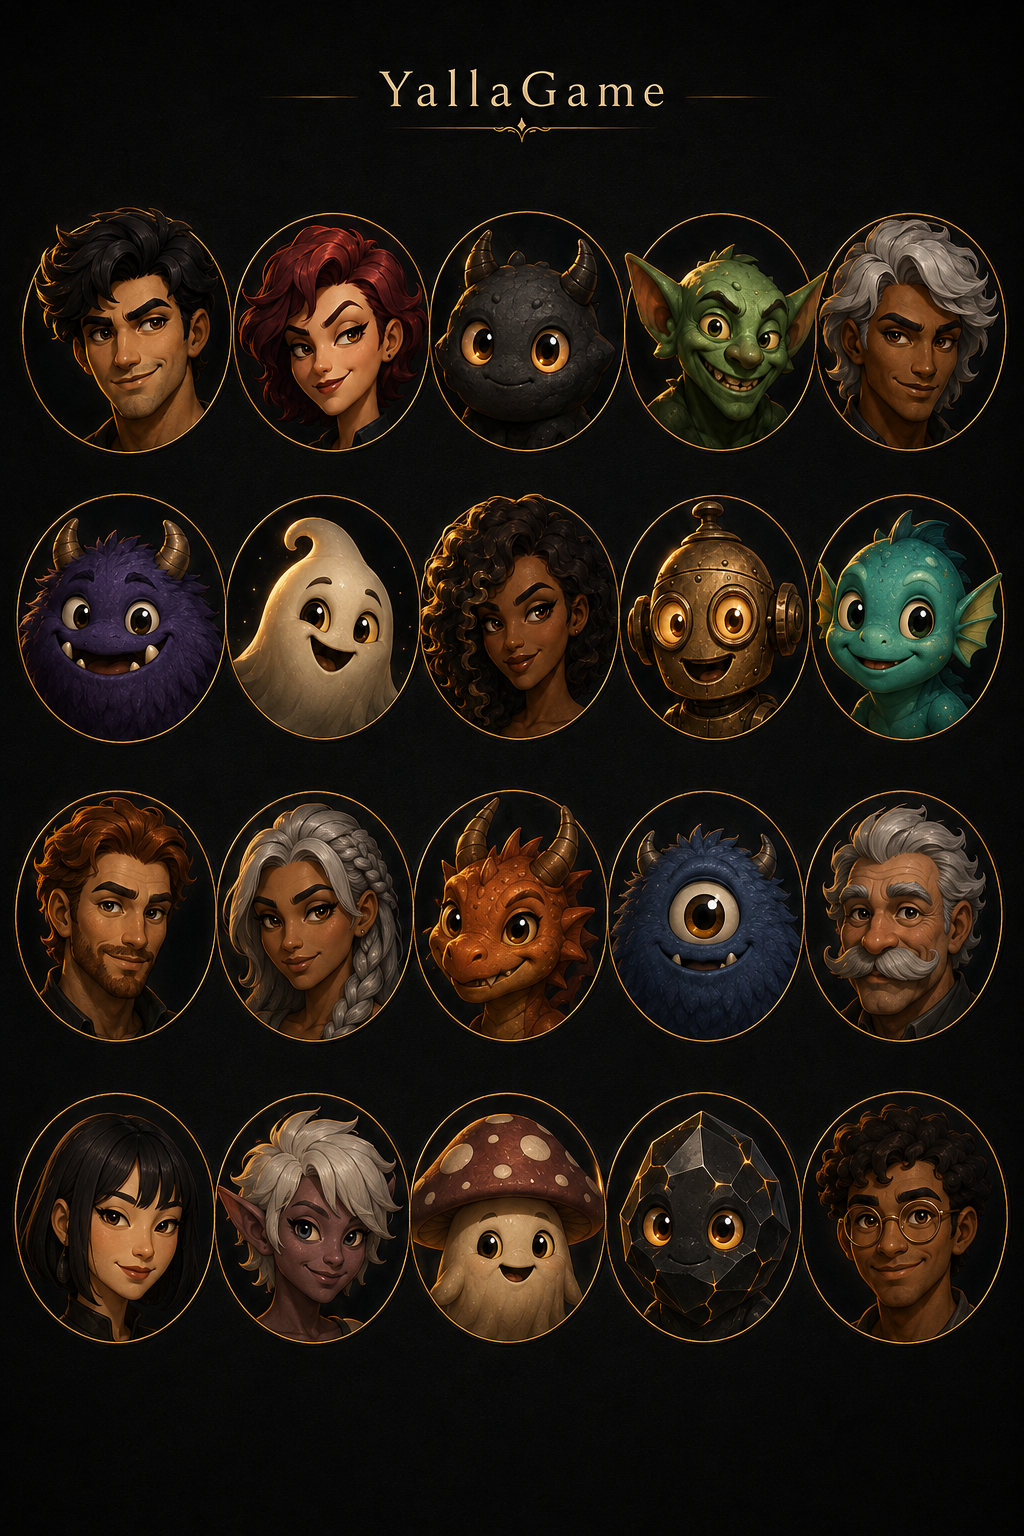
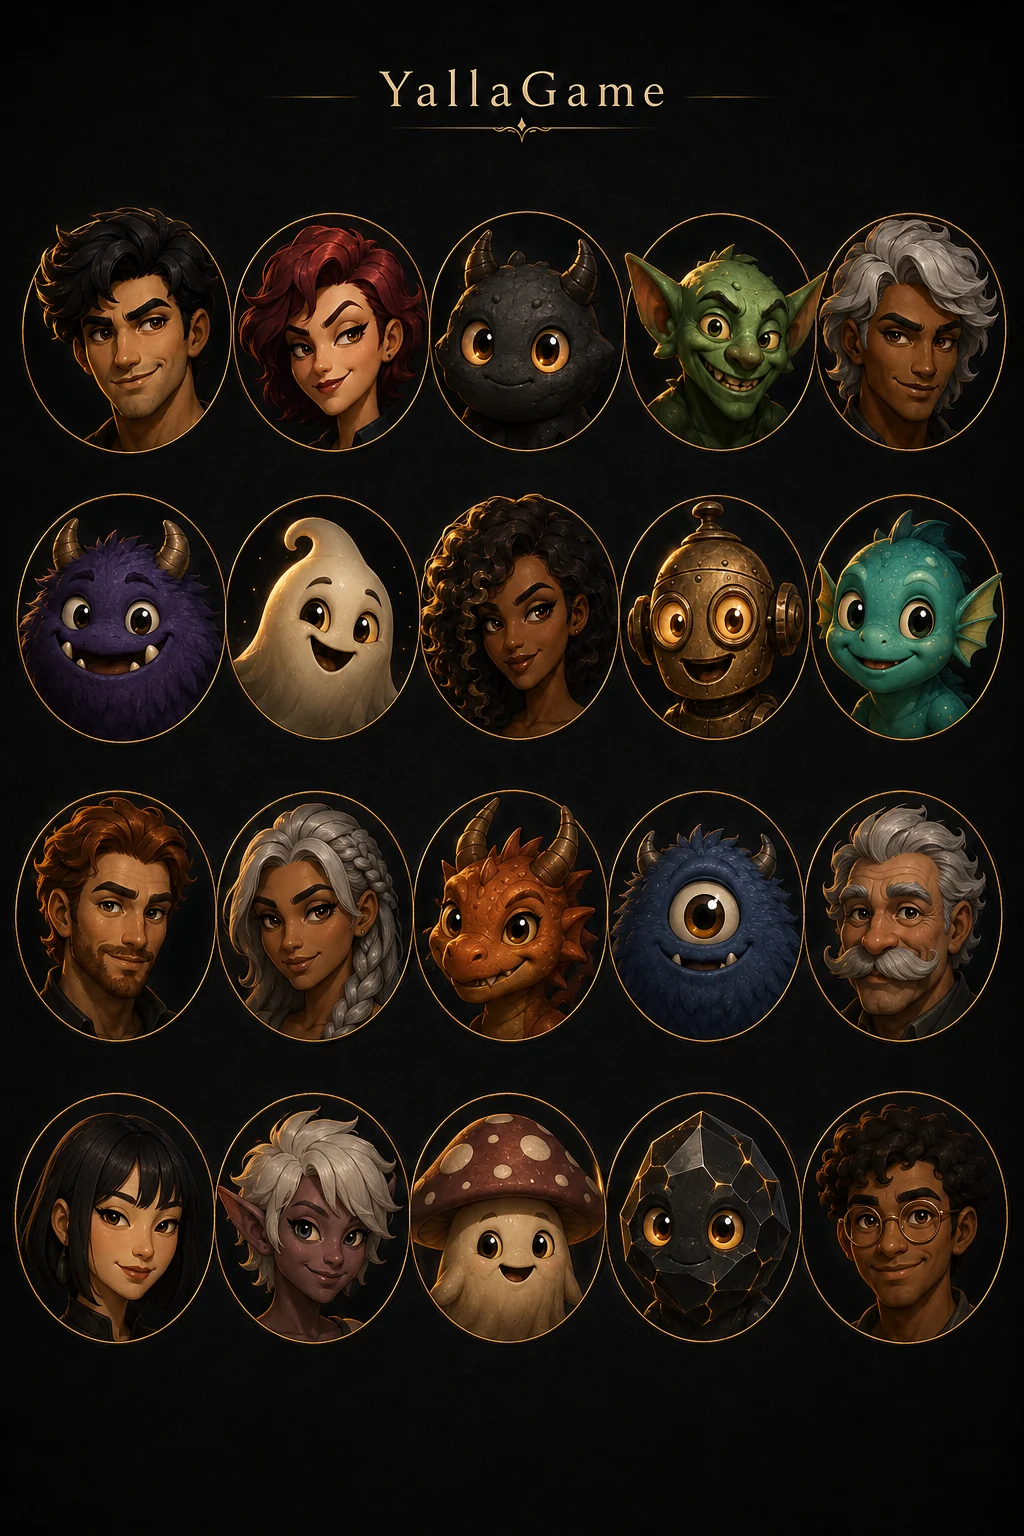
fix: site audit — SEO, security hardening and lighter images
- Worlds page eyebrow no longer hides under the fixed header on wide screens
- Analytics accepts the Worlds, How to Play, Features and About views
- Locale-aware uppercase so Turkish eyebrows render "İ" correctly
- Social tags rewritten in place with absolute URLs, plus canonical/og:url
- Serve robots.txt, sitemap.xml and favicon.ico
- Update production dependencies with known advisories (npm audit fix)
- Cleanup timers and stray rejections can no longer crash the server
- Role and word dealing uses crypto randomness
- Re-encode lossless avatar and football art as lossy WebP (12.5 MB -> 1.6 MB)
- Drop the empty render-blocking styles.css link; bump the worker cache

Changed region(s): [[0.4062, 0.375, 0.4375, 0.4375], [0.7812, 0.4062, 0.8125, 0.4375], [0.2188, 0.1875, 0.25, 0.2188]]

diff --git a/src/server/index.ts b/src/server/index.ts
@@ -1,6 +1,7 @@
 import express from "express"
 import compression from "compression"
 import http from "node:http"
+import { randomInt } from "node:crypto"
 import { Server } from "socket.io"
 import { publicApiLimit, safeHttpError, securityHeaders } from "./security/http.js"
 import path from "node:path"
@@ -77,6 +78,16 @@ async function main() {
   app.get("/api/games", (_req, res) => { res.set("Cache-Control","no-store").json(effectiveCatalog(controlDb)) })
 
   app.get("/control.html", (_req,res) => { res.redirect(303,"/admin") })
+  // Crawlers and browsers ask for these by convention; without them every
+  // request fell through to an HTML 404.
+  app.get("/robots.txt", (_req,res) => {
+    const sitemap = config.ALLOWED_ORIGIN ? `\nSitemap: ${config.ALLOWED_ORIGIN}/sitemap.xml` : ""
+    res.set("Cache-Control","public, max-age=3600").type("text/plain").send(`User-agent: *\nAllow: /\nDisallow: /admin\nDisallow: /api/\nDisallow: /uploads/${sitemap}\n`)
+  })
+  if (config.ALLOWED_ORIGIN) app.get("/sitemap.xml", (_req,res) => {
+    res.set("Cache-Control","public, max-age=3600").type("application/xml").send(`<?xml version="1.0" encoding="UTF-8"?>\n<urlset xmlns="http://www.sitemaps.org/schemas/sitemap/0.9"><url><loc>${config.ALLOWED_ORIGIN}/</loc></url></urlset>\n`)
+  })
+  app.get("/favicon.ico", (_req,res) => { res.redirect(302,"/assets/logo/favicon-velocity.png") })
   if (existsSync(path.join(staticDir,"index.html"))) {
     const publicShell = readFileSync(path.join(staticDir,"index.html"),"utf8")
     app.get(["/","/index.html"],(_req,res) => {
@@ -140,7 +151,7 @@ async function main() {
   })
 
   registerHandlers(io, {
-    io, store, resolveGame, resolveEngine, config, rng: Math.random,
+    io, store, resolveGame, resolveEngine, config, rng: () => randomInt(0x100000000) / 0x100000000,
     canCreateGame: id => (controlDb.prepare("SELECT enabled FROM game_asset_overrides WHERE game_id=?").get(id) as {enabled:number} | undefined)?.enabled !== 0,
     isValidCharacter: id => isSelectableCharacterId(controlDb, id),
     selectableCharacters: () => effectiveAvatarCatalog(controlDb).map(a => a.id)
@@ -148,11 +159,14 @@ async function main() {
 
   setInterval(() => {
     void store.deleteOlderThan(Date.now() - config.ROOM_TTL_HOURS * 60 * 60 * 1000)
+      .catch((err: unknown) => logger.error({ err }, "room cleanup failed"))
   }, 20 * 60 * 1000).unref()
   const retentionDays = Number(process.env.ANALYTICS_RETENTION_DAYS ?? 365)
   if (!Number.isInteger(retentionDays) || retentionDays < 1 || retentionDays > 3650) throw new Error("Invalid ANALYTICS_RETENTION_DAYS")
   analytics.retain(retentionDays)
-  setInterval(() => analytics.retain(retentionDays), 3600_000).unref()
+  setInterval(() => {
+    try { analytics.retain(retentionDays) } catch (err) { logger.error({ err }, "analytics retention failed") }
+  }, 3600_000).unref()
 
   server.listen(config.PORT, () => {
     logger.info({ port: config.PORT, env: config.NODE_ENV }, "server ready")
@@ -168,5 +182,8 @@ async function main() {
   process.on("SIGINT",  () => void shutdown())
   process.on("SIGTERM", () => void shutdown())
 }
+
+// A stray rejection in one room's handler must not take every other room down.
+process.on("unhandledRejection", err => { logger.error({ err }, "unhandled rejection") })
 
 main().catch(err => { logger.fatal({ err }, "startup failed"); process.exit(1) })

diff --git a/src/client/views/gameInfo.ts b/src/client/views/gameInfo.ts
@@ -1,7 +1,7 @@
 import type { Game, Role } from "@shared/types.js"
 import { $, el, clear } from "../ui/dom.js"
 import { buildThemeFx } from "../ui/character.js"
-import { getLang, t } from "../services/i18n.js"
+import { getLang, t, upper } from "../services/i18n.js"
 import { goBack, setView } from "../router.js"
 import { dismissLayer, pushLayer, type LayerHandle } from "../services/navigation.js"
 import { emit } from "../services/socket.js"
@@ -132,7 +132,7 @@ function buildHero(
   // Text direction is independent of the poster/copy placement.
   const titleRow = el("div", { class: "gi-title-row" }, [
     buildThemeIcon(game.theme),
-    el("p", { class: "gi-eyebrow" }, [t("worldLabel").toUpperCase()])
+    el("p", { class: "gi-eyebrow" }, [upper(t("worldLabel"))])
   ])
   const title = el("h1", { class: "gi-title" }, [game.title[lang]])
   // Slogans are English poster lines. Wrap with <bdi dir="ltr"> so adjacent
@@ -240,7 +240,7 @@ function buildAbout(
   leftChildren.push(
     el("p", { class: "gi-section-eyebrow" }, [
       el("span", { class: "gi-ornament" }, ["❖"]),
-      el("span", {}, [t("aboutTitle").toUpperCase()]),
+      el("span", {}, [upper(t("aboutTitle"))]),
       el("span", { class: "gi-ornament" }, ["❖"])
     ]),
     el("h2", { class: "gi-section-title" }, [t("aboutTitle")]),
@@ -298,7 +298,7 @@ function buildHowToPlay(game: Game, lang: ReturnType<typeof getLang>): HTMLEleme
     el("header", { class: "gi-section-header" }, [
       el("p", { class: "gi-section-eyebrow" }, [
         el("span", { class: "gi-ornament" }, ["❖"]),
-        el("span", {}, [t("howToPlayTitle").toUpperCase()]),
+        el("span", {}, [upper(t("howToPlayTitle"))]),
         el("span", { class: "gi-ornament" }, ["❖"])
       ]),
       el("h2", { class: "gi-section-title" }, [t("howToPlayTitle")])
@@ -355,7 +355,7 @@ function buildRoles(
     el("header", { class: "gi-section-header" }, [
       el("p", { class: "gi-section-eyebrow" }, [
         el("span", { class: "gi-ornament" }, ["❖"]),
-        el("span", {}, [t("rolesInGameTitle").toUpperCase()]),
+        el("span", {}, [upper(t("rolesInGameTitle"))]),
         el("span", { class: "gi-ornament" }, ["❖"])
       ]),
       el("h2", { class: "gi-section-title" }, [t("rolesInGameTitle")])
@@ -438,7 +438,7 @@ function buildCategories(
     el("header", { class: "gi-section-header" }, [
       el("p", { class: "gi-section-eyebrow" }, [
         el("span", { class: "gi-ornament" }, ["❖"]),
-        el("span", {}, [t("categoriesTitle").toUpperCase()]),
+        el("span", {}, [upper(t("categoriesTitle"))]),
         el("span", { class: "gi-ornament" }, ["❖"])
       ]),
       el("h2", { class: "gi-section-title" }, [t("categoriesTitle")])
@@ -540,7 +540,7 @@ function openCategorySetup(
     el("header", { class: "gi-setup-header" }, [
       el("p", { class: "gi-section-eyebrow" }, [
         el("span", { class: "gi-ornament" }, ["❖"]),
-        el("span", {}, [t("categorySetupTitle").toUpperCase()]),
+        el("span", {}, [upper(t("categorySetupTitle"))]),
         el("span", { class: "gi-ornament" }, ["❖"])
       ]),
       el("h2", { id: "gi-setup-title", class: "gi-section-title" }, [t("categorySetupTitle")])

diff --git a/tests/unit/control/control.test.ts b/tests/unit/control/control.test.ts
@@ -537,7 +537,7 @@ describe("Control center security and persistence", () => {
   })
   it("escapes branding in server-rendered metadata and preserves defaults", () => {
     const shell =
-      '<head><title>Yalla Game</title><meta name="description" content="Original"><link rel="icon" href="/default.png"></head>'
+      '<head><title>Yalla Game</title><meta name="description" content="Original"><link rel="icon" href="/default.png"><meta property="og:image" content="/assets/logo/og.png" /></head>'
     expect(brandedHtml(shell, {})).toContain("<title>Yalla Game</title>")
     const result = brandedHtml(
       shell,
@@ -547,6 +547,18 @@ describe("Control center security and persistence", () => {
     expect(result).not.toContain("<script>")
     expect(result).toContain("&lt;script&gt;")
     expect(result).toContain("https://example.test/uploads/safe.webp")
+  })
+  it("rewrites the shell's social tags in place with absolute URLs", () => {
+    const shell =
+      '<head><title>Yalla Game</title><meta property="og:title" content="Yalla Game" />' +
+      '<meta property="og:image" content="/assets/logo/og.png" /><meta name="twitter:image" content="/assets/logo/og.png" /></head>'
+    const result = brandedHtml(shell, { siteName: "Party" }, "https://example.test")
+    expect(result.match(/og:title/g)).toHaveLength(1)
+    expect(result).toContain('<meta property="og:title" content="Party" />')
+    expect(result).toContain('<meta property="og:image" content="https://example.test/assets/logo/og.png" />')
+    expect(result).toContain('<meta name="twitter:image" content="https://example.test/assets/logo/og.png" />')
+    expect(result).toContain('<link rel="canonical" href="https://example.test/" />')
+    expect(brandedHtml(shell, {})).toBe(shell)
   })
   it("retention removes expired analytics and preserves current records", () => {
     analytics.pageView("old-visitor", "homeView")

diff --git a/src/server/control/content.ts b/src/server/control/content.ts
@@ -103,10 +103,23 @@ export function brandedHtml(html: string, branding: Record<string, string>, orig
       /<link rel="icon"[^>]*>/,
       () => `<link rel="icon" type="image/webp" href="${escape(branding.favicon!)}">`
     )
-  const tags = [`<meta property="og:title" content="${escape(branding.siteName ?? "Yalla Game")}">`]
+  // Rewrite the shell's own social tags in place: appending a second copy left
+  // crawlers with duplicates, and they need absolute image URLs.
+  const content = (pattern: RegExp, value: string) => {
+    html = html.replace(pattern, (_tag, start: string) => `${start}${escape(value)}" />`)
+  }
+  if (branding.siteName) content(/(<meta (?:property="og|name="twitter):title" content=")[^"]*"\s*\/?\s*>/g, branding.siteName)
   if (branding.description)
-    tags.push(`<meta property="og:description" content="${escape(branding.description)}">`)
-  if (branding.ogImage) tags.push(`<meta property="og:image" content="${escape(origin + branding.ogImage)}">`)
+    content(/(<meta (?:property="og|name="twitter):description" content=")[^"]*"\s*\/?\s*>/g, branding.description)
+  html = html.replace(
+    /(<meta (?:property="og|name="twitter):image" content=")([^"]*)"\s*\/?\s*>/g,
+    (_tag, start: string, shellImage: string) => `${start}${escape(origin + (branding.ogImage ?? shellImage))}" />`
+  )
+  if (!origin) return html
+  const tags = [
+    `<link rel="canonical" href="${escape(origin)}/" />`,
+    `<meta property="og:url" content="${escape(origin)}/" />`
+  ]
   return html.replace("</head>", () => tags.join("\n") + "\n</head>")
 }
 export function publicConfiguration(db: Database.Database) {

diff --git a/src/client/views/home.ts b/src/client/views/home.ts
@@ -1,6 +1,6 @@
 import type { Game } from "@shared/types.js"
 import { $, el, clear } from "../ui/dom.js"
-import { getLang, t } from "../services/i18n.js"
+import { getLang, t, upper } from "../services/i18n.js"
 import { setView } from "../router.js"
 import { dismissLayer, pushLayer, type LayerHandle } from "../services/navigation.js"
 import { showToast } from "../ui/toast.js"
@@ -198,7 +198,7 @@ function buildFeaturedSlide(lang: ReturnType<typeof getLang>): HTMLElement {
   const header = el("header", { class: "how-header" }, [
     el("p", { class: "how-eyebrow" }, [
       el("span", { class: "how-ornament", "aria-hidden": "true" }, ["◆"]),
-      el("span", {}, [t("featuredEyebrow").toUpperCase()]),
+      el("span", {}, [upper(t("featuredEyebrow"))]),
       el("span", { class: "how-ornament", "aria-hidden": "true" }, ["◆"])
     ]),
     el("h2", { class: "how-title" }, [t("featuredTitle")]),

diff --git a/src/client/themes/siteHeader.css b/src/client/themes/siteHeader.css
@@ -186,6 +186,11 @@
 body[data-header-layout="browse"] .hero-slide {
   padding-block-start: max(124px, calc(108px + env(safe-area-inset-top)));
 }
+/* The shelf starts with a small eyebrow, not a padded hero, so it needs its
+   own clearance under the fixed header on wide screens too. */
+body[data-header-layout="browse"] .worlds-page {
+  padding-block-start: 72px;
+}
 
 @media (max-width: 1180px) {
   .site-header[data-layout="browse"] {
@@ -213,6 +218,9 @@ body[data-header-layout="browse"] .hero-slide {
   /* These pages share the header, so their first title must clear its second row. */
   body[data-header-layout="browse"] :is(.worlds-page, .how-page, .features-page, .about-page) {
     padding-block-start: 100px;
+  }
+  body[data-header-layout="browse"] .worlds-page {
+    padding-block-start: 124px;
   }
 }
 @media (max-width: 600px) {

diff --git a/src/client/views/worlds.ts b/src/client/views/worlds.ts
@@ -1,5 +1,5 @@
 import { $, el, clear } from "../ui/dom.js"
-import { getLang, t } from "../services/i18n.js"
+import { getLang, t, upper } from "../services/i18n.js"
 import { setView } from "../router.js"
 import { clearTheme } from "../themes/loader.js"
 import { buildBookCover } from "../ui/bookCover.js"
@@ -11,7 +11,7 @@ function buildShelfSlide(lang: ReturnType<typeof getLang>): HTMLElement {
   const header = el("header", { class: "shelf-header" }, [
     el("p", { class: "shelf-eyebrow" }, [
       el("span", { class: "shelf-ornament" }, ["❖"]),
-      el("span", {}, [t("exploreEyebrow").toUpperCase()]),
+      el("span", {}, [upper(t("exploreEyebrow"))]),
       el("span", { class: "shelf-ornament" }, ["❖"])
     ]),
     el("h2", { class: "shelf-title" }, [t("exploreWorlds")]),

diff --git a/src/client/ui/bookCover.ts b/src/client/ui/bookCover.ts
@@ -1,6 +1,6 @@
 import type { Game, LangCode } from "@shared/types.js"
 import { el } from "./dom.js"
-import { t } from "../services/i18n.js"
+import { t, upper } from "../services/i18n.js"
 import { worldCoverPath } from "../data/assets.js"
 
 /* Short, dramatic taglines shown on each book cover (poster-style). Shared by
@@ -33,7 +33,7 @@ export function buildBookCover(game: Game, lang: LangCode, idx: number, onSelect
   // TOP ornament header
   const top = el("div", { class: "book-top" }, [
     el("span", { class: "book-ornament" }, ["❖"]),
-    el("span", { class: "book-kicker" }, [t("worldLabel").toUpperCase()]),
+    el("span", { class: "book-kicker" }, [upper(t("worldLabel"))]),
     el("span", { class: "book-ornament" }, ["❖"])
   ])
 

diff --git a/src/client/ui/pageSections.ts b/src/client/ui/pageSections.ts
@@ -1,4 +1,5 @@
 import { el } from "./dom.js"
+import { upper } from "../services/i18n.js"
 
 /** Shared "eyebrow + title (+ description)" header, reused by How to Play,
  * Features and About for every section — same markup/classes the site
@@ -10,7 +11,7 @@ export function sectionHeading(opts: { eyebrow?: string; title: string; descript
     header.append(
       el("p", { class: "how-eyebrow" }, [
         el("span", { class: "how-ornament", "aria-hidden": "true" }, ["◆"]),
-        el("span", {}, [opts.eyebrow.toUpperCase()]),
+        el("span", {}, [upper(opts.eyebrow)]),
         el("span", { class: "how-ornament", "aria-hidden": "true" }, ["◆"])
       ])
     )

diff --git a/index.html b/index.html
@@ -25,7 +25,6 @@
   <link rel="preconnect" href="https://fonts.googleapis.com" />
   <link rel="preconnect" href="https://fonts.gstatic.com" crossorigin />
   <link rel="stylesheet" href="https://fonts.googleapis.com/css2?family=Archivo+Black&family=Manrope:wght@400;500;600;700;800&family=Inter:wght@400;500;600;700&family=JetBrains+Mono:wght@500;700&family=Cinzel:wght@500;700&family=Playfair+Display:wght@700&family=Space+Mono:wght@700&family=Noto+Sans+Arabic:wght@400;600;700&display=swap" />
-  <link rel="stylesheet" href="/styles.css" />
 </head>
 <body>
   <!-- atmosphere injected by atmosphere.ts -->

diff --git a/src/client/services/i18n.ts b/src/client/services/i18n.ts
@@ -16,6 +16,10 @@ export function t(key: keyof Translations): string {
 
 export function getLang(): LangCode { return current }
 
+/** Uppercase for display in the active language: a plain toUpperCase() turns
+ * Turkish "i" into "I" instead of "İ". */
+export function upper(text: string): string { return text.toLocaleUpperCase(current) }
+
 export function setLang(lang: LangCode): void {
   current = lang
   localStorage.setItem(STORAGE_KEY, lang)

diff --git a/public/sw.js b/public/sw.js
@@ -23,7 +23,7 @@
  * shows the old cover until the visit after next. Changing the version drops
  * both caches on activate, which is the only thing that fixes it that visit.
  */
-const VERSION = "v4"
+const VERSION = "v5"
 const SHELL_CACHE = `yalla-shell-${VERSION}`
 const ASSET_CACHE = `yalla-assets-${VERSION}`
 const SHELL_URL = "/"
